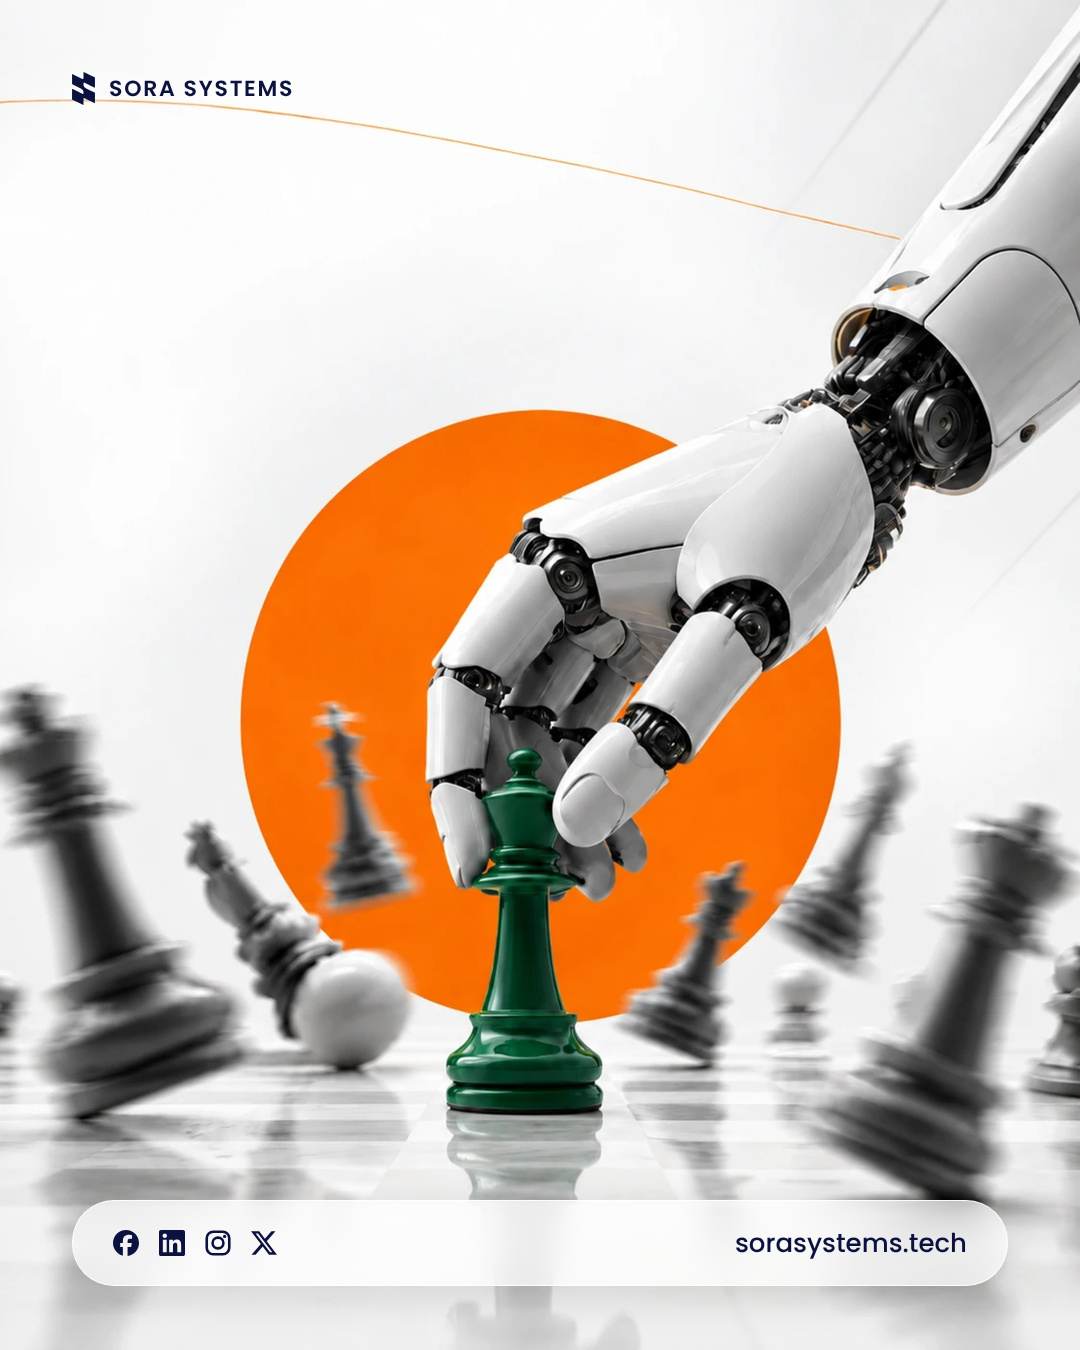
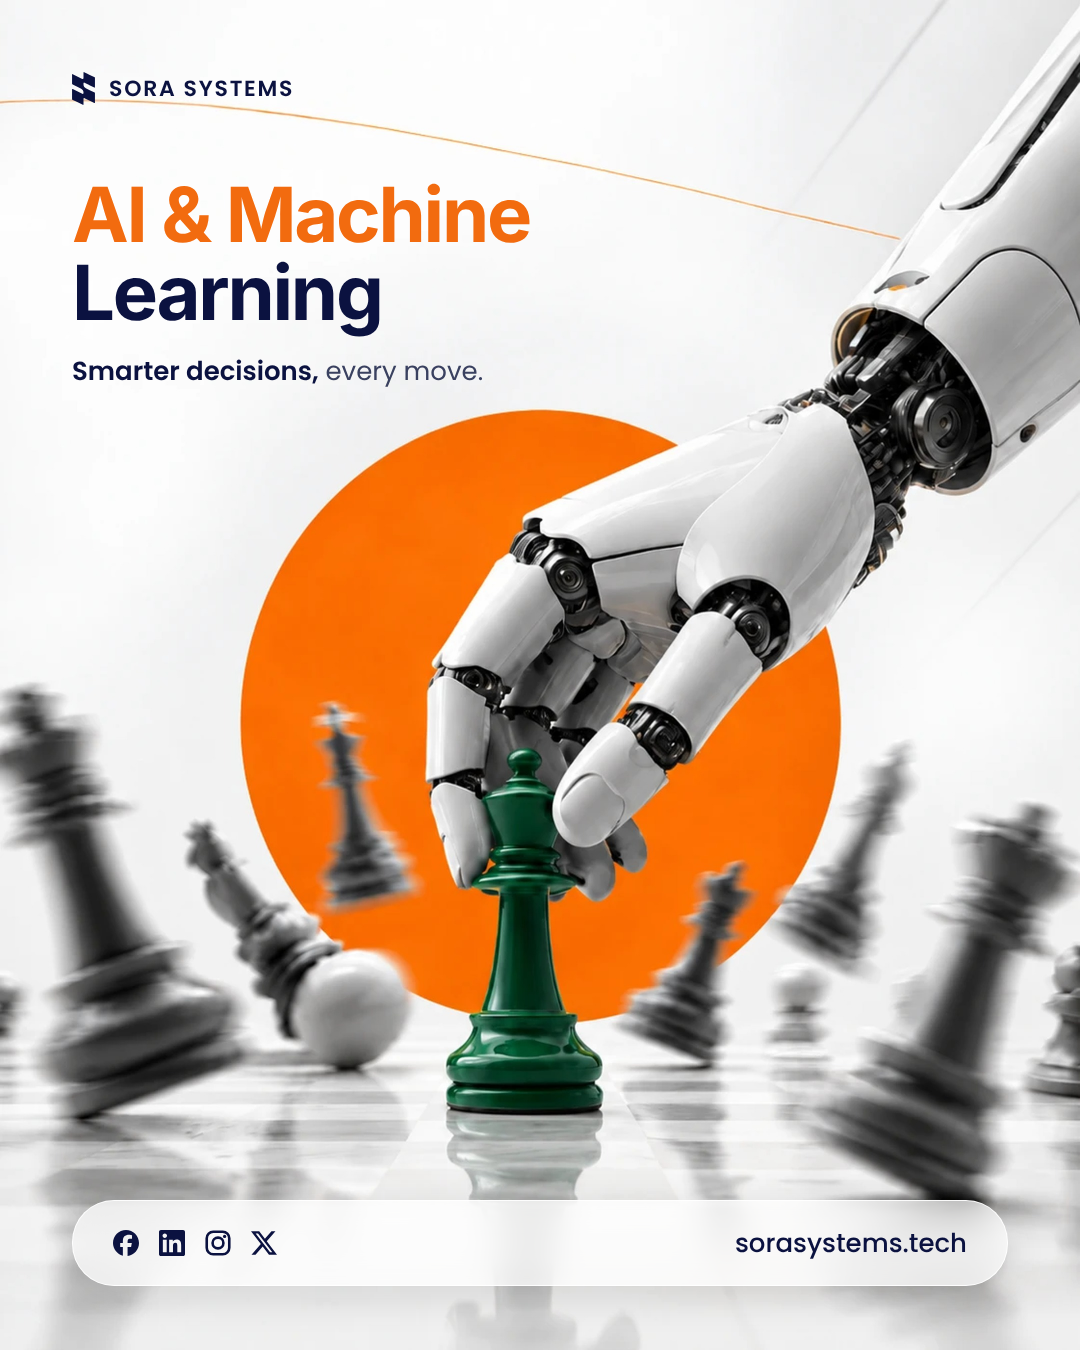
AI chess post: service title and tagline
Claude-Session: https://claude.ai/code/session_018LrWno3rUgkkNcDC2TDXLt

Changed region(s): [[0.0611, 0.1244, 0.4889, 0.28]]

diff --git a/designs/ai-chess/sora-ai-chess.html b/designs/ai-chess/sora-ai-chess.html
@@ -6,9 +6,9 @@
 .brand svg{width:23px;height:33px;display:block}.brand span{font-weight:600;font-size:22px;letter-spacing:.08em}
 .foot{position:absolute;left:72px;right:72px;bottom:64px;height:84px;border-radius:42px;background:rgba(255,255,255,.72);border:1.5px solid rgba(255,255,255,.9);backdrop-filter:blur(14px);box-shadow:0 10px 40px rgba(0,0,0,.12);display:flex;align-items:center;justify-content:space-between;padding:0 40px}
 .social{display:flex;gap:20px}.social svg{width:26px;height:26px;display:block}
-.url{font-weight:500;font-size:26px}</style></head><body><div class="post">
+.url{font-weight:500;font-size:26px}.copy{position:absolute;left:72px;top:176px;width:620px}.copy h1{margin:0;font-family:"Helvetica Neue",Helvetica,Arial,sans-serif;font-weight:700;font-size:76px;line-height:1.02;letter-spacing:-.03em;color:#0B1240}.copy h1 span{color:#F26B0F}.copy p{margin:22px 0 0;font-size:26px;line-height:1.4;color:#3a4160}.copy p b{font-weight:600;color:#0B1240}</style></head><body><div class="post">
 <div class="brand"><svg viewBox="265.090 145.520 547.273 788.961" xmlns="http://www.w3.org/2000/svg"><path fill="#0B1240" d="M 812.363281 283.472656 L 812.363281 508.15625 C 812.363281 516.351562 803.769531 521.722656 796.410156 518.078125 L 681.371094 461.1875 L 675.542969 458.308594 L 562.761719 402.519531 C 562.753906 402.515625 562.746094 402.515625 562.738281 402.515625 C 562.730469 402.515625 562.71875 402.511719 562.710938 402.503906 C 561.292969 401.417969 559.660156 400.601562 557.917969 400.132812 C 557.910156 400.132812 557.902344 400.132812 557.894531 400.132812 C 557.886719 400.132812 557.875 400.128906 557.867188 400.128906 C 556.558594 399.71875 555.195312 399.527344 553.777344 399.527344 C 545.457031 399.527344 538.726562 406.269531 538.726562 414.601562 L 538.726562 443.640625 C 538.726562 481.675781 560.304688 516.417969 594.398438 533.277344 L 675.542969 573.40625 L 725.703125 598.207031 L 806.207031 638.027344 C 809.980469 639.890625 812.363281 643.726562 812.363281 647.945312 L 812.363281 878.113281 C 812.363281 886.304688 803.769531 891.675781 796.410156 888.03125 L 761.738281 870.878906 L 675.542969 828.265625 L 562.761719 772.476562 C 562.753906 772.472656 562.746094 772.46875 562.738281 772.46875 C 562.726562 772.46875 562.71875 772.46875 562.710938 772.464844 L 557.921875 770.09375 C 557.914062 770.089844 557.902344 770.085938 557.890625 770.085938 C 557.882812 770.085938 557.875 770.085938 557.871094 770.082031 C 556.558594 769.671875 555.195312 769.484375 553.777344 769.484375 C 545.457031 769.484375 538.726562 776.222656 538.726562 784.554688 L 538.726562 920.917969 C 538.726562 929.109375 530.132812 934.480469 522.773438 930.835938 L 401.972656 871.101562 C 401.933594 871.082031 401.90625 871.039062 401.90625 870.996094 C 401.90625 870.929688 401.855469 870.878906 401.789062 870.878906 L 401.621094 870.878906 C 401.574219 870.878906 401.53125 870.867188 401.492188 870.847656 L 271.246094 806.449219 C 267.46875 804.585938 265.089844 800.75 265.089844 796.53125 L 265.089844 560.882812 C 265.089844 552.691406 273.679688 547.320312 281.042969 550.964844 L 376.597656 598.207031 L 401.90625 610.730469 L 509.691406 664.03125 L 523.207031 670.71875 C 523.355469 670.789062 523.515625 670.828125 523.675781 670.828125 C 535.410156 670.828125 538.726562 656.273438 538.726562 644.539062 L 538.726562 633.625 C 538.726562 595.585938 517.148438 560.84375 483.054688 543.984375 L 401.90625 503.855469 L 315.65625 461.1875 L 271.246094 439.238281 C 267.46875 437.375 265.089844 433.535156 265.089844 429.316406 L 265.089844 207.371094 C 265.089844 199.179688 273.679688 193.808594 281.042969 197.453125 L 401.90625 257.21875 L 508.542969 309.945312 C 509.171875 310.246094 509.746094 310.65625 510.320312 311.070312 C 511.5 311.945312 512.8125 312.683594 514.179688 313.234375 C 514.425781 313.34375 514.671875 313.425781 514.917969 313.507812 C 515.246094 313.644531 515.628906 313.753906 515.988281 313.863281 C 516.316406 313.972656 516.671875 314.054688 517.027344 314.136719 C 518.285156 314.4375 519.597656 314.574219 520.9375 314.574219 C 530.761719 314.574219 538.726562 306.601562 538.726562 296.761719 L 538.726562 159.085938 C 538.726562 150.863281 547.316406 145.519531 554.679688 149.164062 L 631.515625 187.148438 L 675.542969 208.933594 L 806.207031 273.550781 C 809.980469 275.414062 812.363281 279.253906 812.363281 283.472656 Z M 812.363281 283.472656 "/></svg><span>SORA SYSTEMS</span></div>
-<div class="foot"><div class="social">
+<div class="copy"><h1><span>AI &amp; Machine</span><br>Learning</h1><p><b>Smarter decisions,</b> every move.</p></div><div class="foot"><div class="social">
     <svg viewBox="0 0 24 24" aria-label="Facebook"><path fill="#0B1240" d="M9.101 23.691v-7.98H6.627v-3.667h2.474v-1.58c0-4.085 1.848-5.978 5.858-5.978.401 0 .955.042 1.468.103a8.68 8.68 0 0 1 1.141.195v3.325a8.623 8.623 0 0 0-.653-.036 26.805 26.805 0 0 0-.733-.009c-.707 0-1.259.096-1.675.309a1.686 1.686 0 0 0-.679.622c-.258.42-.374.995-.374 1.752v1.297h3.919l-.386 2.103-.287 1.564h-3.246v8.245C19.396 23.238 24 18.179 24 12.044c0-6.627-5.373-12-12-12s-12 5.373-12 12c0 5.628 3.874 10.35 9.101 11.647Z"/></svg>
     <svg viewBox="0 0 24 24" aria-label="LinkedIn"><path fill="#0B1240" d="M20.447 20.452h-3.554v-5.569c0-1.328-.027-3.037-1.852-3.037-1.853 0-2.136 1.445-2.136 2.939v5.667H9.351V9h3.414v1.561h.046c.477-.9 1.637-1.85 3.37-1.85 3.601 0 4.267 2.37 4.267 5.455v6.286zM5.337 7.433c-1.144 0-2.063-.926-2.063-2.065 0-1.138.92-2.063 2.063-2.063 1.14 0 2.064.925 2.064 2.063 0 1.139-.925 2.065-2.064 2.065zm1.782 13.019H3.555V9h3.564v11.452zM22.225 0H1.771C.792 0 0 .774 0 1.729v20.542C0 23.227.792 24 1.771 24h20.451C23.2 24 24 23.227 24 22.271V1.729C24 .774 23.2 0 22.222 0h.003z"/></svg>
     <svg viewBox="0 0 24 24" aria-label="Instagram"><rect x="1.6" y="1.6" width="20.8" height="20.8" rx="6" fill="none" stroke="#0B1240" stroke-width="2.4"/><circle cx="12" cy="12" r="5" fill="none" stroke="#0B1240" stroke-width="2.4"/><circle cx="18.1" cy="5.9" r="1.5" fill="#0B1240"/></svg>
